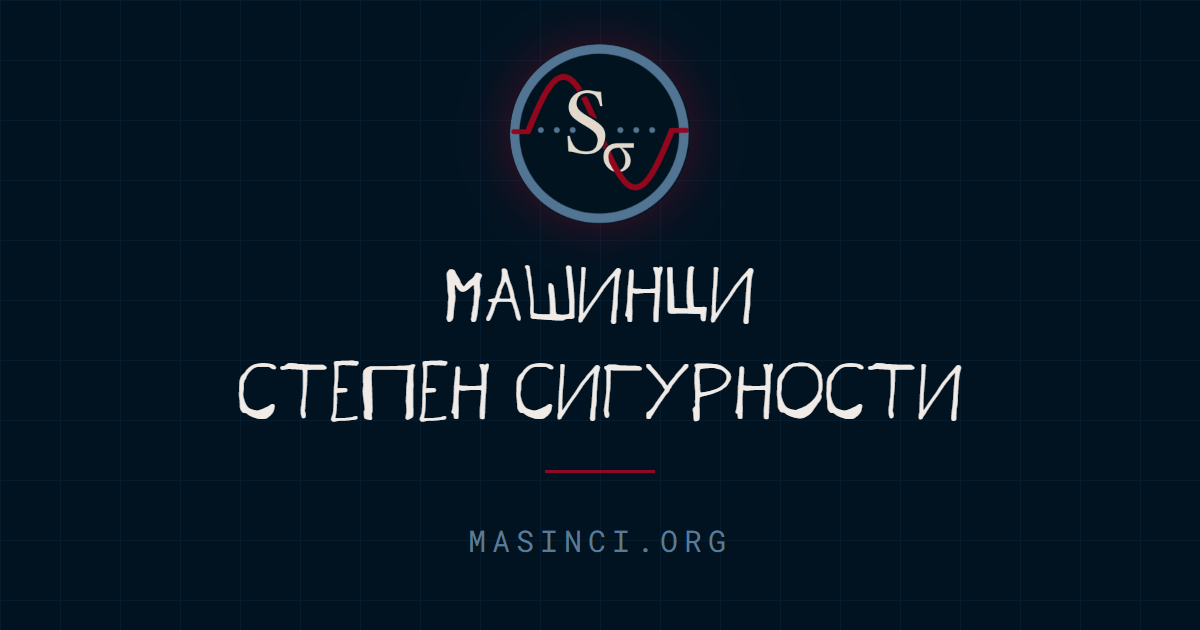
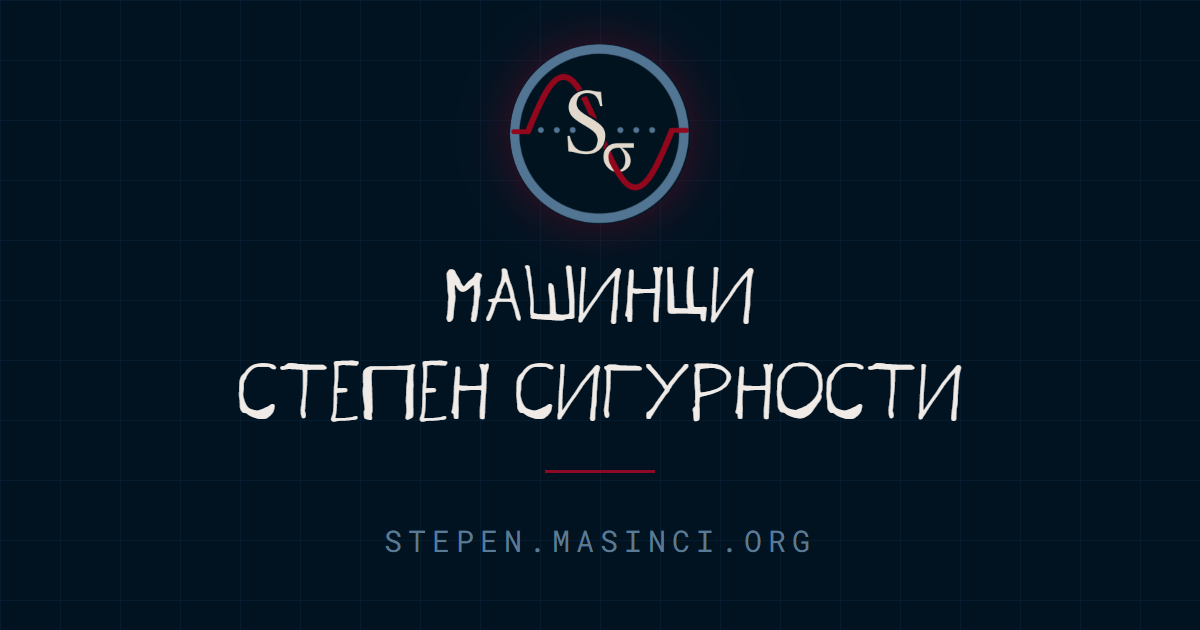
Mašinci card: new address

Changed region(s): [[0.3083, 0.8444, 0.6783, 0.8746]]

diff --git a/pages/og-link.html b/pages/og-link.html
@@ -126,6 +126,6 @@ section:target { display: block; }
   <img src="https://stepen.masinci.org/stepen.webp" alt="">
   <h1>МАШИНЦИ<br>СТЕПЕН СИГУРНОСТИ</h1>
   <hr>
-  <div class="ft">MASINCI.ORG</div>
+  <div class="ft">STEPEN.MASINCI.ORG</div>
 </section>
 </html>
